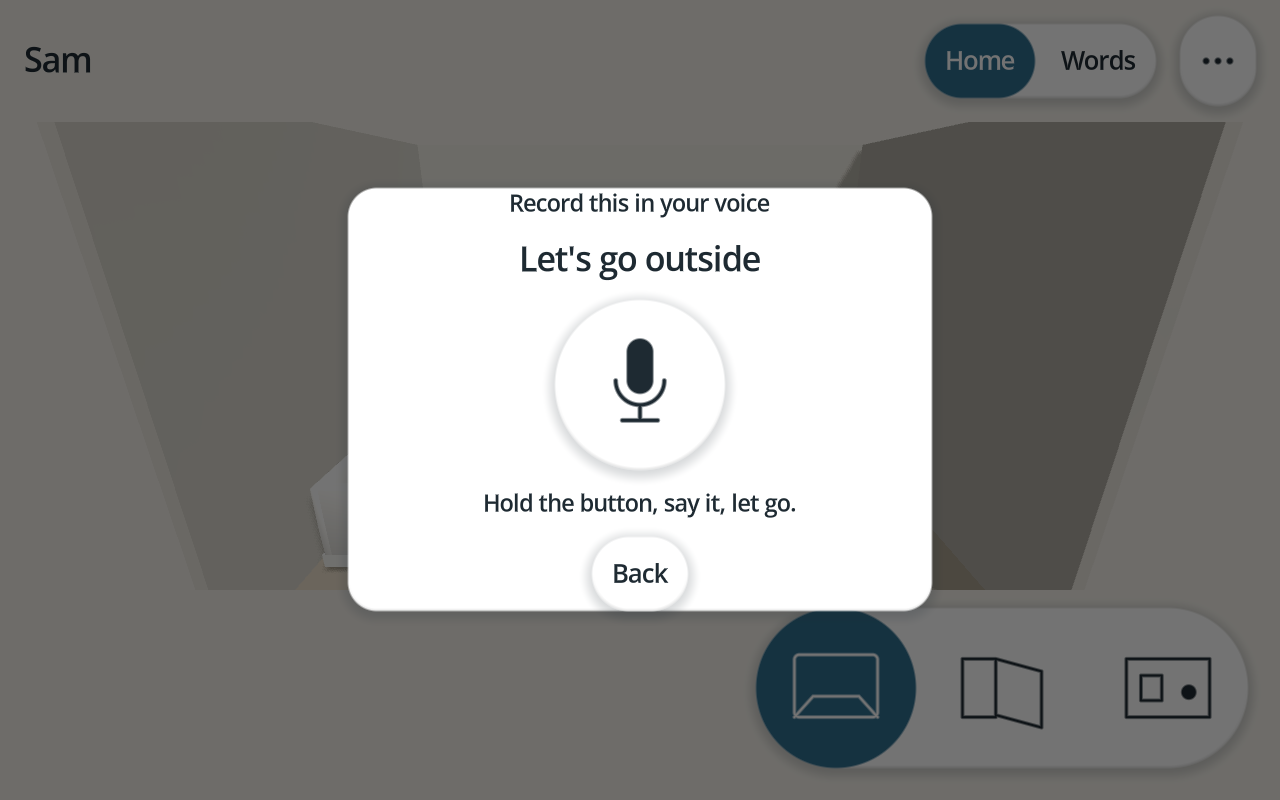
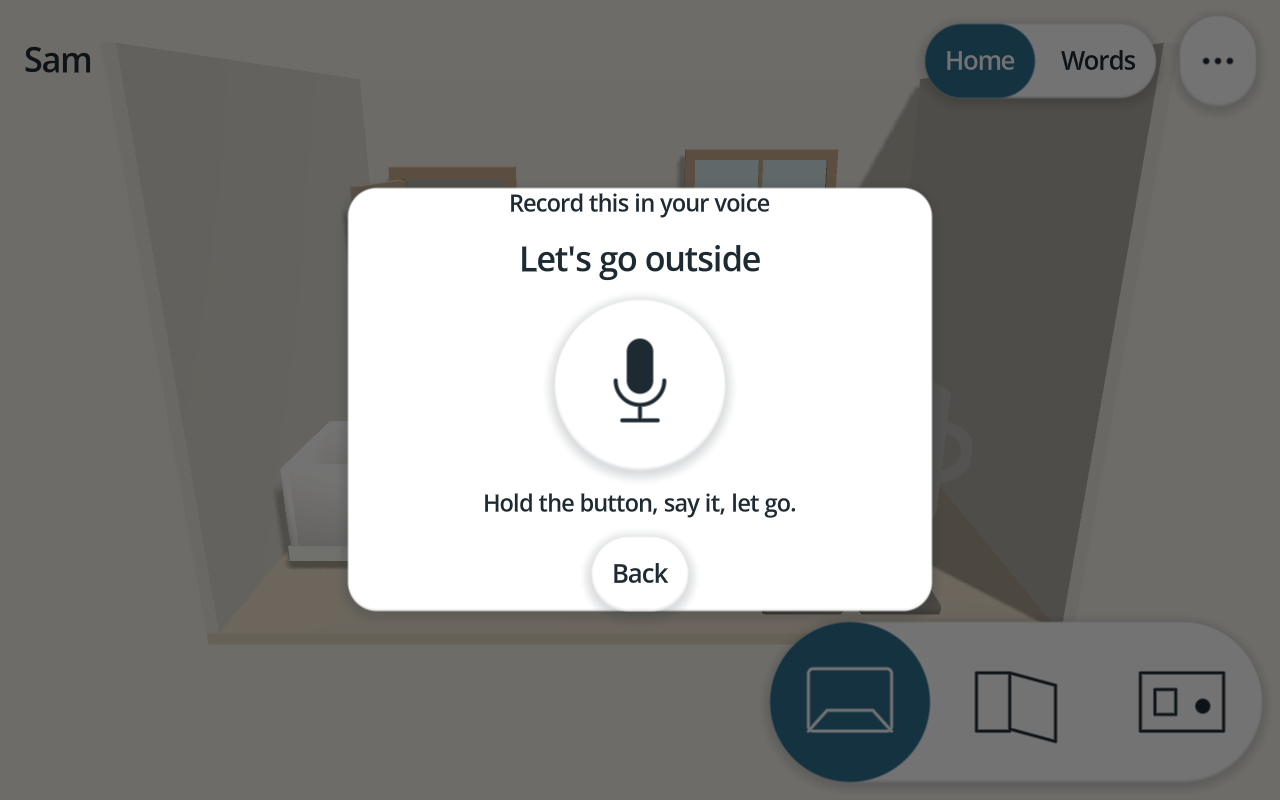
feat(ui) render the room edge to edge and float the controls over it
- The room view fills the home screen; the top bar and the view pill float over it with the containers between
  them set to ignore the pointer.
- The camera frames the room's footprint up to its tallest spot into the band the floating controls leave
  (`RoomView.safe_rect`, `CameraFraming.full_extent` and `center_offset`, `RoomSpace.content_dims`), so a wall
  may run under a control and an object never does.
- The probe checks every spot's center and the framed box's center against the band.

Claude-Session: https://claude.ai/code/session_01Brov8DxnPxPnDvfkaNeKXq

diff --git a/docs/ui.md b/docs/ui.md
@@ -24,6 +24,18 @@ The shapes follow where platform interfaces have moved: rounded, concentric and 
   style preset's `relief` scales both; `quiet` is nearly flat. Translucency and refraction are left out on
   purpose: they cost contrast, and contrast is what a learner with a visual or motor difference needs most.
 
+## Floating over the room
+
+The room renders edge to edge, and the chrome floats over it: the title, the place pill and the profiles
+button at the top, the view pill at the bottom right. The camera frames the room's objects into the band the
+floating controls leave (`RoomView.safe_rect`, `CameraFraming.full_extent`, `CameraFraming.center_offset`),
+so the walls may run under a control and an object never does. The box framed is the footprint up to the
+tallest spot (`RoomSpace.content_dims`), not the whole wall. `just room-probe` checks every spot's center
+lies inside the band.
+
+Containers above the room are `MOUSE_FILTER_IGNORE`, so a tap between controls reaches the room; a pill bar
+is `PASS`, so a tap on its padding does not.
+
 ## The controls
 
 | Control | Extends | What it is |

diff --git a/docs/geometry.md b/docs/geometry.md
@@ -109,8 +109,9 @@ Input rules (`RoomView._gui_input`):
 - A drag past `DRAG_PX` that started on an object cancels the press and does nothing more.
 - A drag that started on empty room turns the view only when `camera` is `orbit`.
 
-Framing (`CameraFraming`, pure): the frame extent is the vertical span of the world visible at the room's
-center. `fit_extent` projects the box's silhouette for the current angles; `frame_extent` pulls that in when
+Framing (`CameraFraming`, pure): the frame extent is the vertical span of the world visible at the framed
+box's center. The box is the room's footprint up to its tallest spot, framed into the band between the
+floating controls (docs/ui.md "Floating over the room"). `fit_extent` projects the box's silhouette for the current angles; `frame_extent` pulls that in when
 the smallest spot would project under the touch floor, by at most `MAX_PULL_IN`; `perspective_distance`
 turns the extent into a camera distance; `camera_transform` places the camera with an up vector that turns
 smoothly from the front view to straight down.
